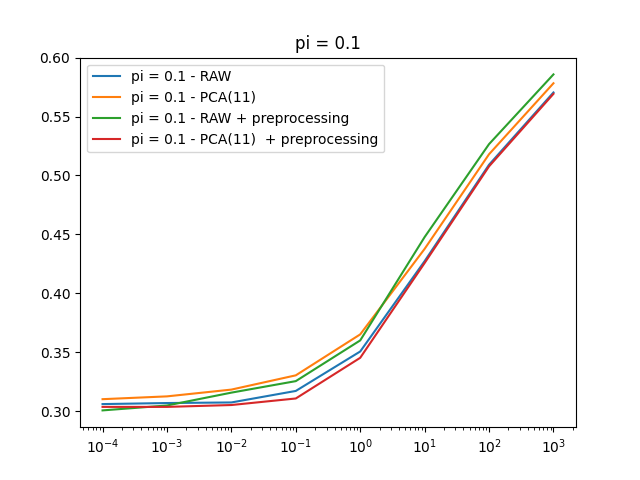
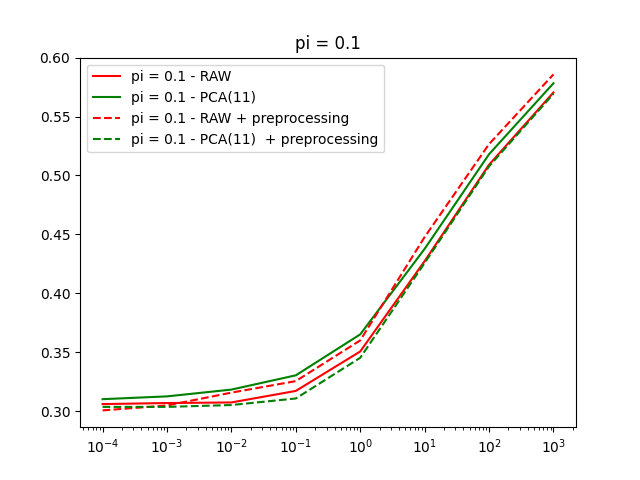
ok

Changed region(s): [[0.1562, 0.1562, 0.875, 0.875], [0.1562, 0.1562, 0.1875, 0.25], [0.1562, 0.2812, 0.1875, 0.3125]]

diff --git a/stiv/project/plots/LR/LR.py b/stiv/project/plots/LR/LR.py
@@ -66,30 +66,30 @@ plt.savefig("plots/LR/pi09") """
 plt.figure()
 plt.xscale('log')
 plt.title("pi = 0.1")
-plt.plot(lambdas, a12_1, label="pi = 0.1 - RAW")
-plt.plot(lambdas, a11_1, label="pi = 0.1 - PCA(11)")
-plt.plot(lambdas, a12_1_pre, label="pi = 0.1 - RAW + preprocessing")
-plt.plot(lambdas, a11_1_pre, label="pi = 0.1 - PCA(11)  + preprocessing")
+plt.plot(lambdas, a12_1, label="pi = 0.1 - RAW", c="red")
+plt.plot(lambdas, a11_1, label="pi = 0.1 - PCA(11)", c="green")
+plt.plot(lambdas, a12_1_pre, label="pi = 0.1 - RAW + preprocessing", linestyle="dashed", c="red")
+plt.plot(lambdas, a11_1_pre, label="pi = 0.1 - PCA(11)  + preprocessing", linestyle="dashed", c="green")
 plt.legend()
-plt.savefig("plots/LR/pi01_pre")
+plt.savefig("./pi01_pre")
 
 plt.figure()
 plt.xscale('log')
 plt.title("pi = 0.5")
-plt.plot(lambdas, a12_2, label="pi = 0.5 - RAW")
-plt.plot(lambdas, a11_2, label="pi = 0.5 - PCA(11)")
-plt.plot(lambdas, a12_2_pre, label="pi = 0.5 - RAW + preprocessing")
-plt.plot(lambdas, a11_2_pre, label="pi = 0.5 - PCA(11)  + preprocessing")
+plt.plot(lambdas, a12_2, label="pi = 0.5 - RAW", c="red")
+plt.plot(lambdas, a11_2, label="pi = 0.5 - PCA(11)", c="green")
+plt.plot(lambdas, a12_2_pre, label="pi = 0.5 - RAW + preprocessing", linestyle="dashed", c="red")
+plt.plot(lambdas, a11_2_pre, label="pi = 0.5 - PCA(11)  + preprocessing", linestyle="dashed", c="green")
 plt.legend()
-plt.savefig("plots/LR/pi05_pre")
+plt.savefig("./pi05_pre")
 
 plt.figure()
 plt.xscale('log')
 plt.title("pi = 0.9")
-plt.plot(lambdas, a12_3, label="pi = 0.9 - RAW")
-plt.plot(lambdas, a11_3, label="pi = 0.9 - PCA(11)")
-plt.plot(lambdas, a12_3_pre, label="pi = 0.9 - RAW + preprocessing")
-plt.plot(lambdas, a11_3_pre, label="pi = 0.9 - PCA(11)  + preprocessing")
+plt.plot(lambdas, a12_3, label="pi = 0.9 - RAW", c="red")
+plt.plot(lambdas, a11_3, label="pi = 0.9 - PCA(11)", c="green")
+plt.plot(lambdas, a12_3_pre, label="pi = 0.9 - RAW + preprocessing", linestyle="dashed", c="red")
+plt.plot(lambdas, a11_3_pre, label="pi = 0.9 - PCA(11)  + preprocessing", linestyle="dashed", c="green")
 plt.legend()
-plt.savefig("plots/LR/pi09_pre")
+plt.savefig("./pi09_pre")
 

diff --git a/stiv/project/plots/SVM/plotSVM.py b/stiv/project/plots/SVM/plotSVM.py
@@ -1,0 +1,23 @@
+import matplotlib.pyplot as plt
+
+a12_1 = [ 0.6660714285714286, 0.5476190476190477, 0.5119047619047619, 0.4842857142857143,     0.4639880952380952,     0.4488095238095238,  0.5802083333333333, 0.8644179894179894, 0.9932738095238095]
+a12_2 = [ 0.567063492063492,  0.4185185185185185, 0.3437996031746032, 0.29888888888888887,    0.26875,                0.24912131519274378, 0.2626984126984127, 0.3060626102292769, 0.3548015873015873]
+a12_3 = [ 0.7180555555555556, 0.6026455026455027, 0.5447420634920634, 0.5124603174603175,     0.48961640211640217,    0.47208049886621317, 0.5727926587301587, 0.8486331569664903, 0.9458134920634922]
+
+a11_1 = [0.6666666666666667, 0.557936507936508,      0.5252976190476191, 0.499047619047619,      0.4725198412698413,     0.47891156462585033,    0.5864583333333333,     0.9417989417989416, 0.9996428571428573]
+a11_2 = [0.5695436507936508, 0.41990740740740745,    0.3452876984126984, 0.30103174603174604,    0.27142857142857146,    0.2509920634920635,     0.24841269841269842,    0.2957671957671958, 0.32732142857142854]
+a11_3= [0.7161706349206349, 0.6005952380952381,     0.5492559523809525, 0.5185714285714287,     0.4984457671957673,     0.49418934240362816,    0.5220238095238094,     0.7481481481481482, 0.9727777777777779]
+lambdas = [1e-4, 1e-3, 1e-2, 1e-1, 1e0, 1e1, 1e2, 1e3, 1e4]
+
+plt.figure()
+plt.xscale('log')
+plt.title("LINEAR SVM")
+plt.plot(lambdas, a12_1, label="pi = 0.1 - RAW", c="red")
+plt.plot(lambdas, a12_2, label="pi = 0.5 - RAW", c="green")
+plt.plot(lambdas, a12_3, label="pi = 0.9 - RAW", c="blue")
+plt.plot(lambdas, a11_1, label="pi = 0.1 - PCA(11)", linestyle="dashed", c="red")
+plt.plot(lambdas, a11_2, label="pi = 0.5 - PCA(11)", linestyle="dashed", c="green")
+plt.plot(lambdas, a11_3, label="pi = 0.9 - PCA(11)", linestyle="dashed", c="blue")
+plt.legend()
+plt.savefig("./LINEAR_SVM")
+

diff --git a/stiv/project/validation/SVM_LINEAR.py b/stiv/project/validation/SVM_LINEAR.py
@@ -1,0 +1,47 @@
+from lib import *
+k=10
+def SVMEvaluationWrap(DTR, LTR):
+    data = [np.load("data/pca/pca_11.npy"), DTR]
+    PIs = [0.1, 0.5, 0.9]
+
+    for d in data:
+        for PI in PIs:
+            SVMEvaluation(d, LTR, PI)
+
+def SVMEvaluation(x, labels, PI):
+    num_samples = x.shape[1]
+    C = [1e-4, 1e-3, 1e-2, 1e-1, 1e0, 1e1, 1e2, 1e3, 1e4] #removed e5
+    indices = np.random.permutation(num_samples)
+    fold_size = num_samples // k
+
+    SVM_S_cumulative = np.array([])
+    labels_cumulative = np.array([])
+    
+    print("[ ", end="", flush=True)
+
+    for c in C:        
+        for i in range(k):
+            fold_start = i * fold_size
+            fold_end = (i + 1) * fold_size
+            val_indices = indices[fold_start:fold_end]
+            train_indices = np.concatenate([indices[:fold_start], indices[fold_end:]])
+            
+            x_train, labels_train = x[:,train_indices], labels[train_indices]
+            x_val, labels_val = x[:,val_indices], labels[val_indices]
+
+            S = compute_svm(x_train, labels_train, x_val, 1, c)
+
+            SVM_S_cumulative = np.append(SVM_S_cumulative, S)
+            labels_cumulative = np.append(labels_cumulative, labels_val)
+
+        min_DCF = computeMinDCF(PI, 1, 1, SVM_S_cumulative, labels_cumulative)
+        print(f"{min_DCF}, ", end="", flush=True)
+    print()
+
+if __name__ == '__main__':
+    DTR = np.load("../data/DTR.npy")
+    LTR = np.load("../data/LTR.npy")
+    DTE = np.load("../data/DTE.npy")
+    LTE = np.load("../data/LTE.npy")
+
+    SVMEvaluationWrap(DTR, LTR)

diff --git a/stiv/project/validation/SVM_RBF.py b/stiv/project/validation/SVM_RBF.py
@@ -1,4 +1,6 @@
 from lib import *
+import SVM_POLY
+
 k=10
 
 def SVMEvaluationWrap(DTR, LTR):
@@ -14,12 +16,9 @@ def SVMEvaluationWrap(DTR, LTR):
     txt.write(log) 
     txt.close()
 
-
-    
-
 def SVMRBFEvaluation(x, labels, pi):
     Cs = [1e-4, 1e-3, 1e-2, 1e-1, 1e0, 1e1, 1e2, 1e3, 1e4]
-    Ys = [0.1, 0.01, 0.001]
+    Ys = [0.001]
     SVM_S_cumulative = np.array([])
     labels_cumulative = np.array([])
 
@@ -30,9 +29,9 @@ def SVMRBFEvaluation(x, labels, pi):
     s=""
 
     for Y in Ys:
+        s += "[ "
+        print("[ ", end="", flush=True)
         for C in Cs:
-            s += "[ "
-            print("[ ", end="", flush=True)
             for i in range(k):
                 fold_start = i * fold_size
                 fold_end = (i + 1) * fold_size
@@ -55,9 +54,6 @@ def SVMRBFEvaluation(x, labels, pi):
         s += "\n"
         print()
 
-    s += "\n"
-    print()
-
     
 
     return s
@@ -69,3 +65,5 @@ if __name__ == '__main__':
     LTE = np.load("../data/LTE.npy")
 
     SVMEvaluationWrap(DTR, LTR)
+
+    SVM_POLY.SVMEvaluationWrap(DTR, LTR)

diff --git a/stiv/project/lib.py b/stiv/project/lib.py
@@ -415,7 +415,7 @@ def compute_svm_RBF(DTR, LTR, DTE, K, C, g):
             H[i][j] *= (np.exp(-g*(np.linalg.norm(DTRE.T[i] - DTRE.T[j]))**2) + K**2)
 
     BC = [(0, C) for i in range(0, DTR.shape[1])]
-    [alpha, f, d2] = sp.optimize.fmin_l_bfgs_b(svm_wrapper(H, DTR), np.zeros((DTR.shape[1],1)), bounds=BC, factr=1)
+    [alpha, f, d2] = sp.optimize.fmin_l_bfgs_b(svm_wrapper(H, DTR), np.zeros((DTR.shape[1],1)), bounds=BC, factr=1000, maxiter=100, maxfun=100)
     
     DTEE = np.vstack([DTE, np.ones((1, DTE.shape[1])) * K])
 
